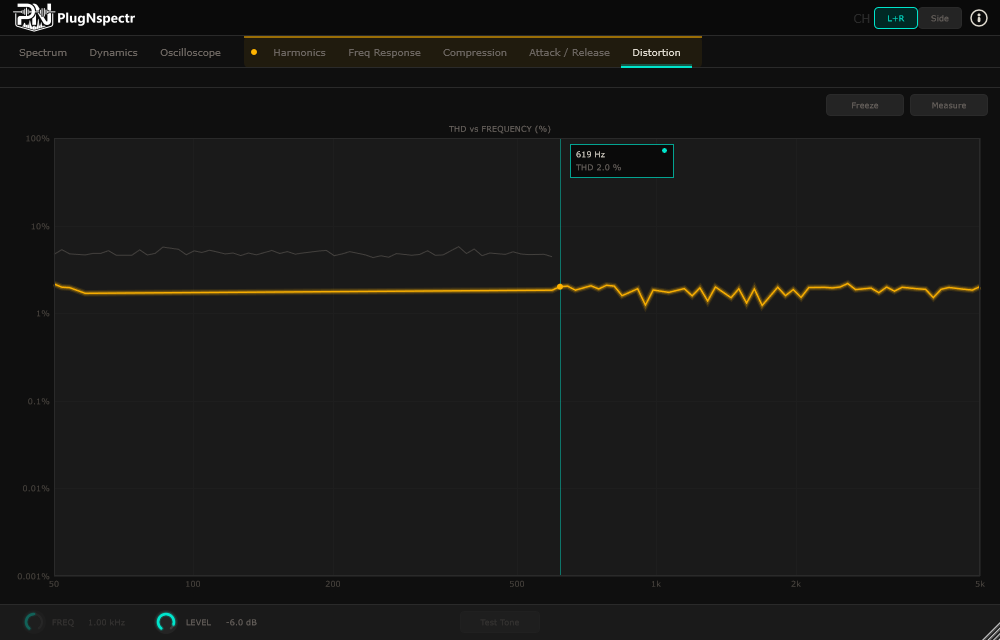
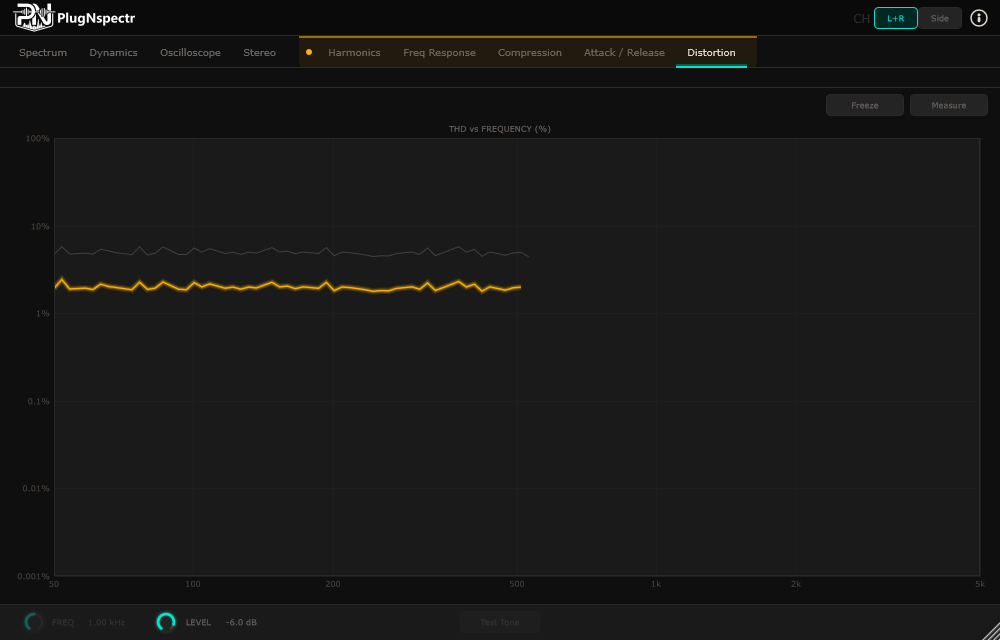
docs: add the Stereo tab screenshot and refresh the measurement tabs (#49)
Adds docs/screenshots/stereo.png and shows it in the README's Stereo section,
which described the tab but had no image.

Re-renders the four harness-generated measurement screenshots (freq-response,
compression, distortion, attack-release) so their tab bars include the new Stereo
tab.

The five in-DAW captures (spectrum, spectrum-hero, dynamics, oscilloscope,
harmonics) are NOT updated here and are now stale - see the follow-up note; they
need re-capturing in Cubase rather than compositing.

Changed region(s): [[0.062, 0.4375, 0.992, 0.5], [0.248, 0.0625, 0.744, 0.125], [0.558, 0.2188, 0.62, 0.2812]]

diff --git a/README.md b/README.md
@@ -258,6 +258,8 @@ A zero-crossing-triggered oscilloscope of both signals — useful for phase shif
 
 ### Stereo Tab
 
+<img src="docs/screenshots/stereo.png" width="820" alt="Stereo tab — per-band width and correlation with goniometer" />
+
 What the plugin does to the **stereo image** — for wideners, imagers, M/S EQs, stereo bus compressors and reverbs.
 
 **Why two plots.** Width alone can't tell you what a widener actually did, because two very different things look the same on a width meter:
